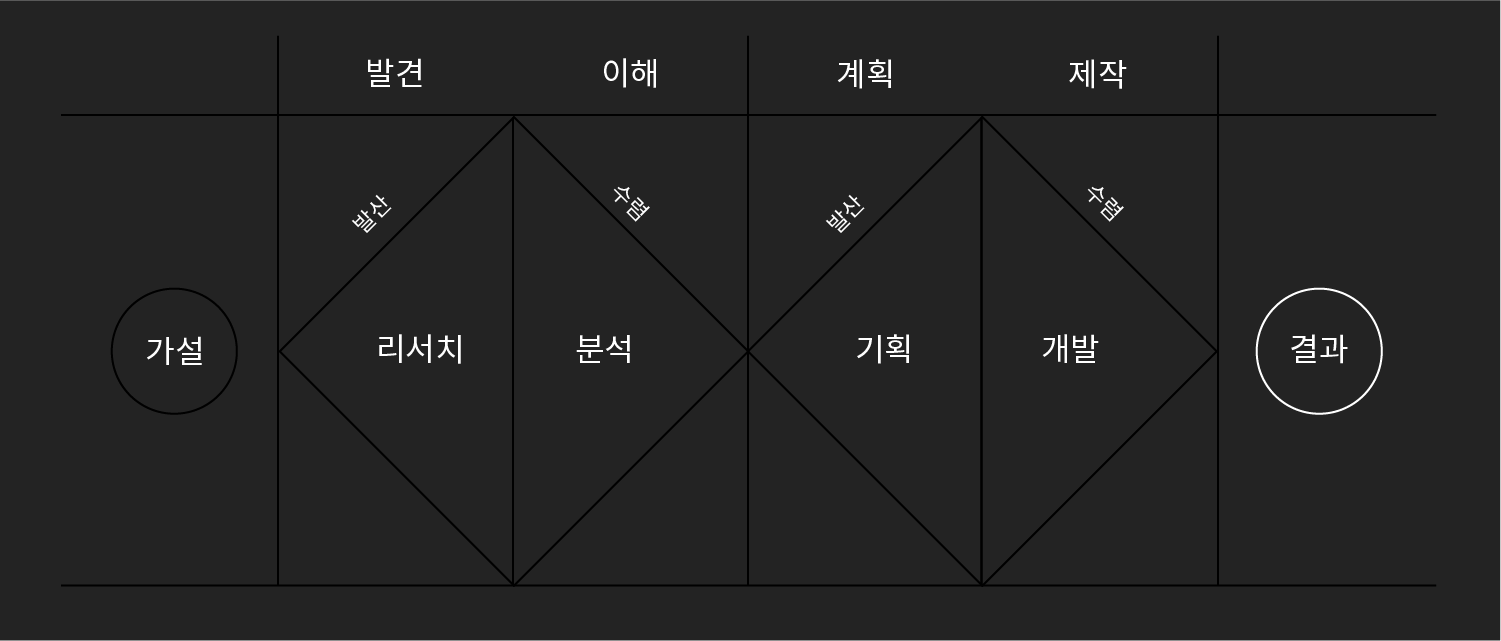
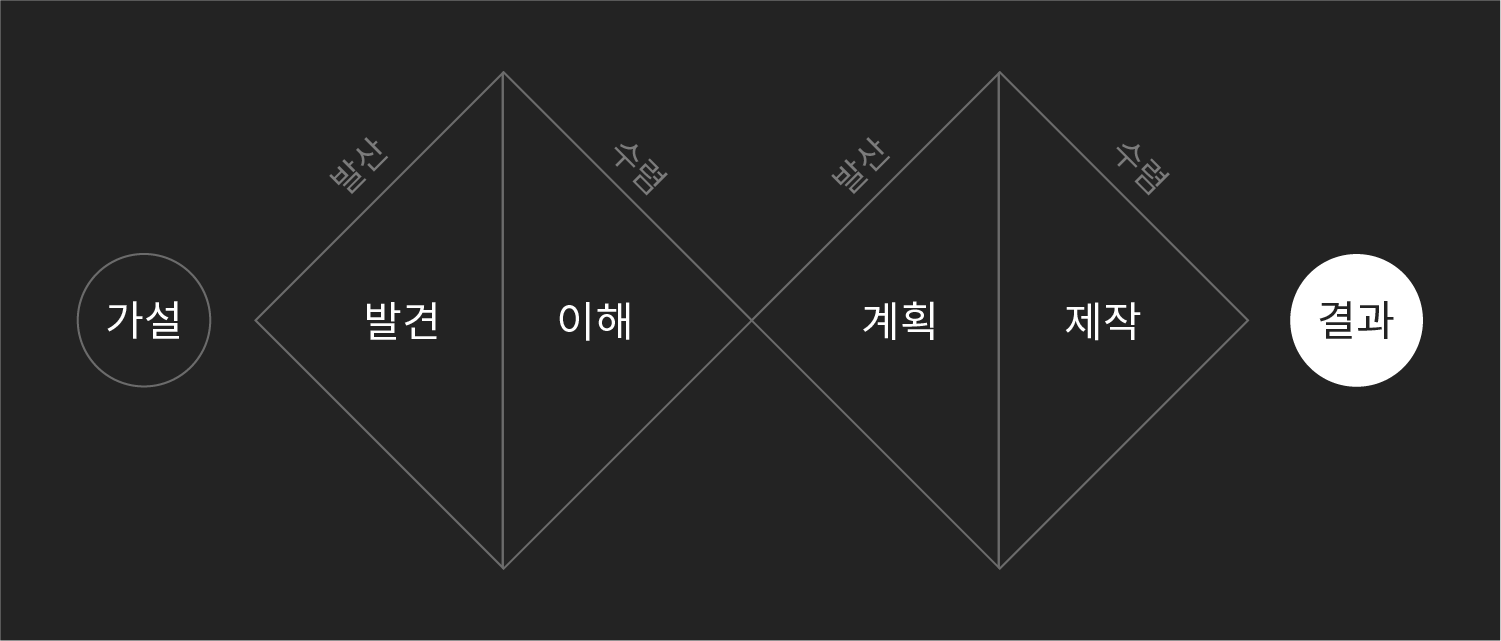
내용 업데이트

diff --git a/design-thinking.html b/design-thinking.html
@@ -60,11 +60,47 @@
                 패턴은 사용자가 목적을 달성하기 위한 과정입니다. 컴포넌트로 만들어진 페이지로 구성되며 사용자 경험의 흐름을 고려해야합니다. 마음에 드는 글을 저장하거나 다음 여행지의 호텔을 예약하는 것과 같이 복합적인 목적을 달성하는 과정을 설계하는 것으로 사용자가 각 단계를 예측할 수 있어야 합니다.
             </div>
             <img class="article-img" src="./img/design-system/design_thinking/thinking_main@2x.png">
+
+
+            <div class="article-title">
+                가설</div>
+            <div class="article-h1">
+                패턴은 사용자가 목적을 달성하기 위한 과정입니다. 컴포넌트로 만들어진 페이지로 구성되며 사용자 경험의 흐름을 고려해야합니다. 마음에 드는 글을 저장하거나 다음 여행지의 호텔을 예약하는 것과 같이 복합적인 목적을 달성하는 과정을 설계하는 것으로 사용자가 각 단계를</div>
             <img class="article-img" src="./img/design-system/design_thinking/thinking_hypothesis@2x.png">
+
+            <div class="article-title">
+                발견</div>
+            <div class="article-h1">
+                패턴은 사용자가 목적을 달성하기 위한 과정입니다. 컴포넌트로 만들어진 페이지로 구성되며 사용자 경험의 흐름을 고려해야합니다. 마음에 드는 글을 저장하거나 다음 여행지의 호텔을 예약하는 것과 같이 복합적인 목적을 달성하는 과정을 설계하는 것으로 사용자가 각 단계를
+            </div>
             <img class="article-img" src="./img/design-system/design_thinking/thinking_research@2x.png">
+            
+            <div class="article-title">
+                이해</div>
+            <div class="article-h1">
+                패턴은 사용자가 목적을 달성하기 위한 과정입니다. 컴포넌트로 만들어진 페이지로 구성되며 사용자 경험의 흐름을 고려해야합니다. 마음에 드는 글을 저장하거나 다음 여행지의 호텔을 예약하는 것과 같이 복합적인 목적을 달성하는 과정을 설계하는 것으로 사용자가 각 단계를
+            </div>
             <img class="article-img" src="./img/design-system/design_thinking/thinking_analysis@2x.png">
+            
+            <div class="article-title">
+                계획</div>
+            <div class="article-h1">
+                패턴은 사용자가 목적을 달성하기 위한 과정입니다. 컴포넌트로 만들어진 페이지로 구성되며 사용자 경험의 흐름을 고려해야합니다. 마음에 드는 글을 저장하거나 다음 여행지의 호텔을 예약하는 것과 같이 복합적인 목적을 달성하는 과정을 설계하는 것으로 사용자가 각 단계를
+            </div>
             <img class="article-img" src="./img/design-system/design_thinking/thinking_plan@2x.png">
+            
+             <div class="article-title">
+                제작</div>
+            <div class="article-h1">
+                패턴은 사용자가 목적을 달성하기 위한 과정입니다. 컴포넌트로 만들어진 페이지로 구성되며 사용자 경험의 흐름을 고려해야합니다. 마음에 드는 글을 저장하거나 다음 여행지의 호텔을 예약하는 것과 같이 복합적인 목적을 달성하는 과정을 설계하는 것으로 사용자가 각 단계를
+            </div>
             <img class="article-img" src="./img/design-system/design_thinking/thinking_make@2x.png">
+            
+             <div class="article-title">
+                결과</div>
+            <div class="article-h1">
+                패턴은 사용자가 목적을 달성하기 위한 과정입니다. 컴포넌트로 만들어진 페이지로 구성되며 사용자 경험의 흐름을 고려해야합니다. 마음에 드는 글을 저장하거나 다음 여행지의 호텔을 예약하는 것과 같이 복합적인 목적을 달성하는 과정을 설계하는 것으로 사용자가 각 단계를
+            </div>
             <img class="article-img" src="./img/design-system/design_thinking/thinking_result@2x.png">
 
             <div class="sidebar-con">
@@ -76,9 +112,8 @@
                         <img class="sidebar-icon" src="./img/icon/icon_outlink.svg">How to apply a design thinking, HCD, UX or any creative process from scratch - Dan Nessler
                     </div>
                 </div>
-
-
             </div>
+
         </div>
     </div>
     <script src="js/index.js" type="text/javascript" charset="utf-8"></script>

diff --git a/pattern.html b/pattern.html
@@ -53,7 +53,6 @@
     <div class="article-outer">
         <div id="submenu-theory"></div>
         <div class="article-container">
-
             <div class="article-title">
                 패턴</div>
             <div class="article-h1">
@@ -75,7 +74,7 @@
             <div class="article-title">
                 고르기</div>
             <div class="article-h1">
-                맥락과 흐름을 구체적으로 정했다면 되도록 OS에서 제시하는 보편적인 패턴을 사용하는 것이 사용자 경험을 유지하는데 도움이 됩니다. (사용자는 언제나 OS를 사용하던 중 나의 서비스를 이용할 것입니다.)
+                맥락과 흐름을 구체적으로 정했다면 되도록 OS에서 제시하는 보편적인 패턴을 사용하는 것이 사용자 경험을 유지하는데 도움이 됩니다. (사용자는 언제나 OS를 사용하던 중 서비스를 이용할 것입니다.)
                 <div class="sidebar-outlink" onclick="location.href='https://material.io/guidelines/patterns/';">
                     <img class="sidebar-icon" src="./img/icon/icon_outlink.svg">Google Material Design - Patterns
                 </div>
